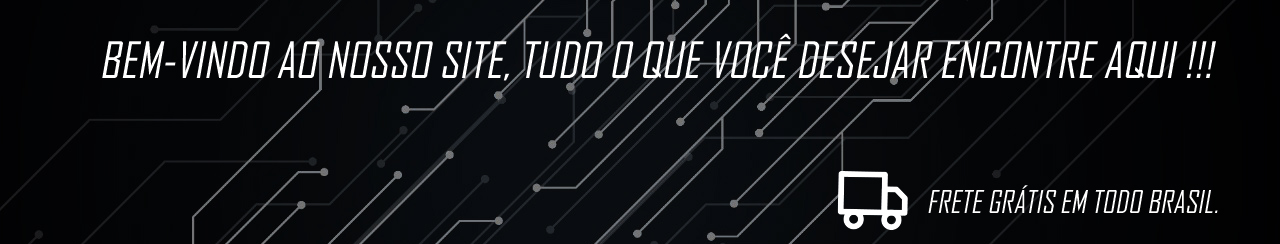
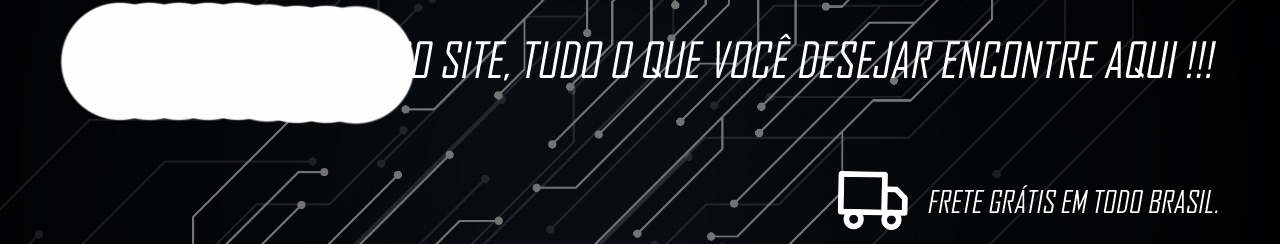
suporte

Changed region(s): [[0.0312, 0.0, 0.3438, 0.5164]]

diff --git a/contato.html b/contato.html
@@ -21,6 +21,32 @@
     </div>
     </div>
     <!-- Começar aqui -->
+    <html>
+  <head>
+    <title>cadrastro</title>
+    <link rel="stylesheet" type="text/css" href="css/estilo.css">
+    <!--[if IE]>
+    <link rel="stylesheet" type="text/css" href="css/estiloie.css">
+    <![endif]-->
+
+  </head>
+<body>
+  <div id="area">
+    <form id="cadastro" autocomplete="off">
+      <fieldset>
+        <h1>Cadastre-se</h1>
+        <label>Nome: <br></label><input class="campo_nome" type="text" placeholder="Insira seu nome completo."><br>
+        <label>Email: <br></label><input class="campo_email" type="text" placeholder="Insira seu E-mail."><br>
+        <label>Telefone: <br></label><input class="campo_telefone" type="text" placeholder="Insira seu telefone."><br><br>
+        <label>Mensagem:</label><br><textarea class="msg" cols="35" rows="8" placeholder="Insira sua dúvida, sugestão ou reclamação!"></textarea><br>
+        <br>
+        <input class="btn_submit"  type="submit" value="Enviar">
+      </fieldset>
+    </form>
+  </div>
+  
+</body>
+</html>
    
     <!-- Terminar aqui  -->
     <script src="functions.js"></script> 

diff --git a/style.css b/style.css
@@ -50,7 +50,7 @@
   #banner {
     width: 100%;
     height: 244px;
-    background: url("img/banner.jpg");
+    background: url("img/banner\ novo.jpg");
   }
   
   #destaque {
@@ -165,3 +165,37 @@
     font-family: AgencyFb, sans-serif;
     margin-top: 30px;
   }
+
+  #cadastro{
+    color: #fff;
+    font-family:  AgencyFb, sans-serif;
+    font-size: 25px;
+    margin-top: 20px;
+    margin-left: 120px;
+  }
+
+  .btn_submit{
+    font-family:  AgencyFb, sans-serif;
+    font-size: 20px;
+    color: #fff;
+    background-color: rgb(230, 113, 46);
+    border-radius: 15%;
+    padding: 5px;
+  }
+
+  #cadastro ::placeholder{
+    font-family: AgencyFb, sans-serif;
+    font-size: 20px;
+    color: rgb(230,113,46);
+  }
+
+  #Endereço{
+    color: #fff;
+    font-family:  AgencyFb, sans-serif;
+    font-size: 20px;
+    margin-top: 20px;
+    margin-left: 120px;
+  }
+
+ 
+  

diff --git a/index.html b/index.html
@@ -36,8 +36,6 @@
         <br>
         <h1>Destaques de vendas:</h1>
         <br>
-        <br>
-        <br>
         <div id="produtosdestaque">
             <img src="img/produto microfone.jpg" alt="">
             <img src="img/produto headset.jpg" alt="">
